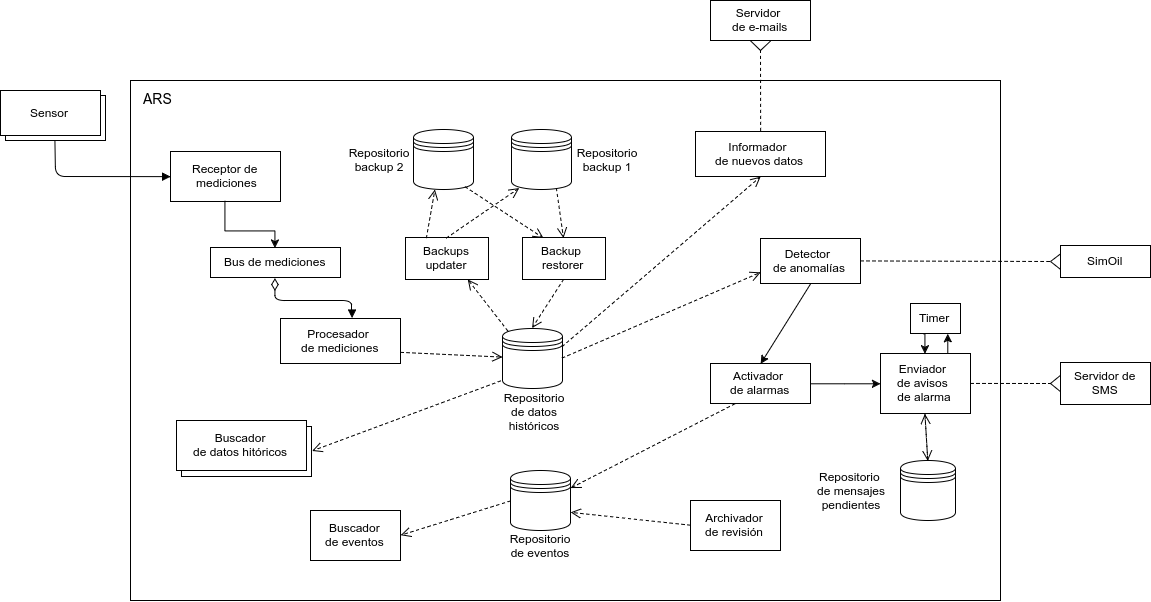
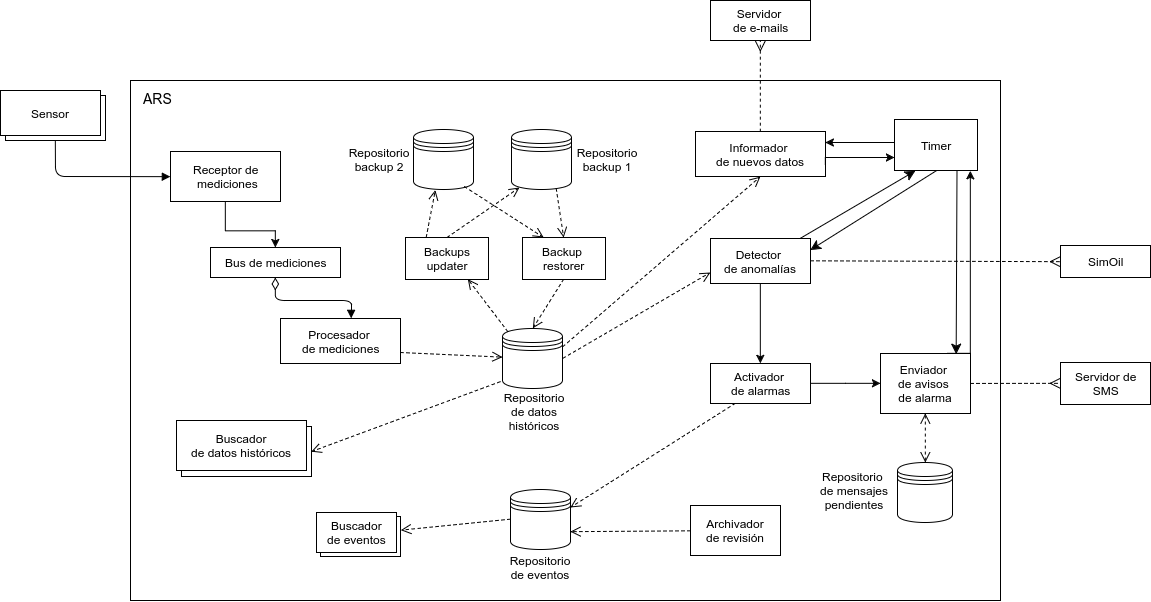
Actualizo con el informe que quedó en el labo

diff --git a/informe/partes/arquitectura.tex b/informe/partes/arquitectura.tex
@@ -1,23 +1,51 @@
 \section{Arquitectura}
-\par Primero vamos a presentar la arquitectura del core de nuestro sistema (ARS), es decir de la parte que se encarga de realizar todas las operaciones sobre los datos.
 
-\begin{figure}[h]
-  \hspace*{-0.7cm}
-  \begin{subfigure}{1.1\textwidth}
-    \includegraphics[width=\textwidth]{imagenes/diagramas/core.png}
+\subsection{Estructura general}
+
+\par Primero vamos a presentar la arquitectura del core de nuestro sistema (ARS), es decir de la parte que se encarga de realizar todas las operaciones sobre los datos (ver figura \ref{fig:dia_cyc_core}).
+\par El encargado de recibir los datos que ingresan al sistema ARS es el \textit{Receptor de mediciones}. A este componente le llegan las mediciones provenientes de los sensores y las publica en un bus, al cual está suscripto el \textit{Procesador de mediciones}. El procesador es el encargado de realizar el trabajo de limpieza y agregación de los datos, para luego colocarlos en el \textit{Repositorio de datos históricos} (más adelante haremos zoom sobre este componente para ver en detalle cómo funciona).
+\par Paralelamente hay un componente llamado \textit{Detector de anomalías}, quien lee los datos ingresados en el repositorio y les aplica algoritmos de big data y machine learning con el propósito de detectar valores anómalos en las mediciones procesadas (para detectarlos también realiza comparaciones con los datos del simulador \textit{SimOil}). Al encontrar un dato no esperado, le envía un call asincrónico al \textit{Activador de alarmas} con toda la información correspondiente a la anomalía, y éste procede a escribir el evento en el \textit{Repositorio de eventos}, al mismo tiempo que se lo comunica al \textit{Enviador de avisos de alarma}. El enviador es el encargado de enviar la notificación a través de una interfaz SMS. Notar que está conectado a un timer y a un repositorio de mensajes pendientes, esto es porque la interfaz SMS no siempre está disponible, y el componente debe reintentar los envíos de mensajes cada cierto tiempo.
+\par El \textit{Informador de nuevos datos} es el componente encargado de comunicarle al ente regulador por mail que hay nuevos datos en el ARS. Para esto está conectado a un timer, de esta manera puede revisar los cambios en el repositorio de datos históricos cada cierto tiempo. Vale aclarar de que el mail que se envía es solo informativo, es decir, no contiene los datos nuevos sino que es solo un aviso (esto es porque el servicio de mail no es seguro, y sería riesgoso para mantener la seguridad del sistema enviar toda la información de las mediciones). Además, enviar los datos puede ser muy poco performante ya que el peso del mail con toda la información puede llegar a ser muy grande.
+\par Por otro lado, como es crucial para nuestra arquitectura tener un repositorio de datos históricos, decidimos darle disponibilidad mediante la realización de un backup. Para esto hay un componente (\textit{Backups updater}) que realiza el backup en los repositorios de backup 1 y 2. En el caso en que el repositorio principal deje de estar disponible, todos los componentes que interactúan con él pasarán a apuntar a alguno de los backups (para que el usuario no detecte la falla), mientras que otro componente, el \textit{Backup restorer}, se encargará de restaurar los datos.
+\par Los componentes \textit{Buscador de datos históricos}, \textit{Buscador de eventos} y \textit{Archivador de revisión} los explicaremos más adelante dado que se relacionan con las interfaces de usuario.
+
+\newpage
+\begin{figure}[H]
+  \centering
+  \includegraphics[angle=-90,scale=0.52]{imagenes/diagramas/core.png}
+  \caption{Diagrama de componentes y conectores que muestra la estructura general y la interacción entre los componentes mas significativos.}
+  \label{fig:dia_cyc_core}
+\end{figure}
+\newpage
+
+\subsection{Procesador de Mediciones}
+
+En la figura \ref{fig:proc_med} podemos observar en detalle el componente Procesador de mediciones (perteneciente al ARS). El mismo posee dos etapas. La primera es la encargada de limpiar los datos recibidos y para ello existen múltiples \textit{Limpiadores de datos}, suscriptos a un Bus de mediciones. Cada uno de los limpiadores se suscribe al tipo de evento que es capaz de procesar (datos de temperatura o presión). Una vez superada esta instancia del proceso, se almacenan los datos en el \textit{Repositorio de datos limpios}.
+\par Luego, varios \textit{Agregadores de mediciones} leen los datos del repositorio, ya sean de temperatura o presión, según la frecuencia seteada por el Timer. Una vez leídos los datos, el mismo componente los borra del repositorio. El objetivo de esto es transformar los datos de alta frecuencia (provenientes de los sensores) en intervalos manejables de 15 minutos. Al finalizar la agregación, las mediciones procesadas son almacenadas en el Repositorio de datos históricos.
+
+\begin{figure}[H]
+  \begin{subfigure}{\textwidth}
+    \includegraphics[width=\textwidth]{imagenes/diagramas/procesadorDeMediciones.png}
   \end{subfigure}
-  \label{}
-  \caption{Diagrama de componentes y conectores del core}
+  \caption{Diagrama de componentes y conectores del Procesador de mediciones}
+  \label{fig:proc_med}
 \end{figure}
 
-\par En la figura se puede observar que poseemos un componente llamado \textit{Receptor de mediciones} el cual, como su nombre lo indica, recibe las mediciones enviadas por los sensores.
-\par Esta es la manera en la que los datos ingresan a ARS. El receptor de mediciones publica en un bus las mediciones para que el \textit{Procesador de mediciones} las reciba luego. El \textit{Procesador de mediciones} es el encargado de realizar el trabajo de limpieza y agregación de los datos para terminar colocando los resultados en un repositorio histórico de datos. La arquitectura interna de este componente la explicaremos más adelante.
-\par Mientras tanto hay un componente dedicado a detectar anomalías, el mismo revisa cada cierto período de longitud configurable si hay nuevos datos en el repositorio de datos históricos. Para detectar las anomalías ejecuta algoritmos de big data y machine learning para lograr su propósito y si llega a encontrar datos no esperados se lo comunica inmediatamente al \textit{Activador de alarmas}. El \textit{Activador de alarmas} procede a escribir el evento en un repositorio de eventos y le comunica el evento al \textit{Enviador de avisos de alarma} para que éste último envie el mensaje por una interfaz SMS. Notar que como la interfaz SMS no siempre está disponible el \textit{Enviador de avisos de alarma} reintenta los envíos cada cierto tiempo.
-\par El \textit{Informador de nuevos datos} es el componente encargado de comunicarle al ente regulador por e-mail que hay nuevos datos en ARS. Para lograr su cometido, lee el repositorio de datos históricos. Dado que es crucial para nuestra arquitectura tener un repositorio de datos históricos decidimos darle disponibilidad mediante la realización de un backup, hay un componente (\textit{Backups updater}) que realiza el backup en los repositorios de backup 1 y 2, en tanto el otro componente (\textit{Backup restorer}) actúa en cuanto el repositorio de datos históricos deja de estar disponible.
-\par Los componentes \textit{Buscador de datos hitóricos}, \textit{Buscador de eventos} y \textit{Archivador de revisión} los explicaremos más adelante dado que están relacionados con las interfaces de usuario.
 
 
-\begin{figure}[h]
+\subsection{Relación de ARS con las UI en clientes}
+
+\par Las funcionalidades disponibles de nuestro sistema ARS desde el punto de vista de la interfaz de usuario son: monitoreo de datos, visualizar la lista de eventos y revisar los mismos. En todos los casos se necesita que el cliente se comunique con el servidor.
+
+\begin{itemize}
+    \item \textbf{Monitor de datos:} El usuario ingresa a la pantalla de monitoreo y el componente \textit{UI monitor de datos} le envía un mensaje asincrónico al \textit{Solicitador de datos} para pedirle las últimas mediciones tomadas. Al recibir esta petición, lee en el \textit{Repositorio de sesión} las credenciales de sesión actual y le envía un mensaje al componente \textit{UI monitor de datos} para avisarle que recibió su solicitud y que la está procesando. El \textit{Solicitador de datos} se comunica de manera segura (ya que viajan credenciales) con el \textit{Buscador de datos históricos} (que se encuentra en el servidor ARS). Es importante aclarar que le pide una cantidad limitada de datos. Una vez que un \textit{Buscador de datos históricos} recibe una petición, valida que el usuario posea los permisos necesarios para acceder a los datos pedidos (por medio del \textit{Repositorio de perfiles de usuarios y sesiones}). Si el usuario no posee permisos (o su sesión no es válida), el buscador le responde al solicitador acceso denegado. En el caso de que el usuario posea los permisos necesarios, el \textit{Buscador de datos históricos} lee desde el \textit{Repositorio histórico de datos} los datos requeridos para luego enviárselos al \textit{Pulicitador de datos}. Una vez que este recibe la respuesta, se la comunica a la \textit{UI monitor de datos} para que los muestre. Como es una herramienta de monitoreo se necesita que con el correr del tiempo se muestren nuevos datos sin la solicitud expresa del usuario. Por esta razón, incluimos un componente llamado \textit{Timer} para que luego de un tiempo configurado le avise al \textit{Solicitador de datos} que debe pedir nuevos datos. Al recibir este aviso, realiza un nuevo pedido al \textit{Buscador de datos históricos} indicando que se quieren obtener solo datos con fecha mayor al último pedido.
+    \item \textbf{Visualizar la lista de eventos:} El usuario accede a la pantalla de listar eventos y el componente UI listado de eventos le envía un mensaje asincrónico al solicitador de eventos y éste le envía otro mensaje asincrónico para avisarle que recibió la solicitud. El solicitador de eventos lee los datos del usuario en el repositorio de sesión y luego establece una conexión segura con el buscador de eventos para solicitarle la lista de eventos. El buscador de eventos lee el repositorio de usuarios, roles y sesiones para validar los datos de acceso y luego el repositorio de eventos para pedir la lista de eventos. El buscador de eventos le envía la lista al solicitador de eventos para que éste se lo reenvíe a la interfaz de usuario. \\
+    De manera opcional, el usuario puede seleccionar un evento en particular. En ese caso, UI listado de eventos le envía un mensaje sincrónico al selector de evento con el evento elegido para que lo almacene en el Repositorio de evento seleccionado.
+    \item \textbf{Visualizar detalle del evento seleccionado:}
+    \item \textbf{Revisión de eventos:} En la pantalla de revisión de evento el usuario puede informar la acción realizada o bien, un falso positivo. La interfaz de usuario de revisión de evento le envía un call sincrónico con el resultado del evento para que el informador de revisión lea el repositorio de sesión y luego se lo pase al archivador de revisión. El archivador de sesión valida los datos de usuario y escribe en el repositorio de eventos la medida tomada o el falso positivo.
+\end{itemize}
+
+\begin{figure}[H]
   \begin{subfigure}{\textwidth}
     \includegraphics[width=\textwidth]{imagenes/diagramas/interaccionConClientes.png}
   \end{subfigure}
@@ -25,26 +53,22 @@
   \caption{}
 \end{figure}
 
-\begin{figure}[h]
+\subsection{Autenticación y creación de sesiones}
+
+\par A continuación pasaremos a explicar los procesos de autenticación, creación de sesión y finalización de sesión. Estos procesos pueden seguirse observando el diagrama de componentes y conectores de la figura \ref{fig:dia_cyc_autenticacion}
+
+\par El proceso de autenticación con el sistema ARS inicia cuando una persona ingresa sus datos de usuario y contraseña en la \textit{UI Login}, que envía estos datos al \textit{Iniciador de login} y se queda esperando la respuesta. Éste, por su parte, inicia una conexión segura con el \textit{Validador de usuarios y contraseñas} (dentro del sistema ARS) para enviarle la petición junto con los datos sensibles de autenticación. Al recibir la petición, el componente \textit{Validador de usuarios y contraseñas} se conecta con el \textit{Hasher}, le envía la contraseña y espera a que sea procesada y devuelta. Una vez obtenido el hash de la contraseña, el componente \textit{Validador de usuarios y contraseñas} corrobora en el \textit{Repositorio de usuarios y contraseñas hasheadas} que exista un usuario que corresponda a esos valores. En caso que no se encuentre el usuario corespondiente, se responde al \textit{Iniciador de sesión} con un error que indica que alguno de los datos ingresados es incorrecto. Este componente responde de la misma manera a la \textit{UI Login} para que muestre el error. En caso de que el componente \textit{Validador de usuarios y contraseñas} encuentre al usuario que corresponde a los valores buscados, le pide al \textit{Creador de sesiones} que genere una nueva sesión para este usuario. Luego de generar la sesión, el \textit{Creador de sesiones} la guarda en el \textit{Repositorio de perfiles de usuarios y sesiones} y responde al \textit{Validador de usuarios y contraseñas} con esta nueva sesión. Para finalizar, se envía esta nueva sesión al \textit{Iniciador de sesión}, quien la almacena en el \textit{Repositorio de sesión} y le comunica a la \textit{UI Login} que se ha conseguido iniciar sesión correctamente.
+
+\par Para el caso de la finalización de sesión, cualquier componente dentro de \textit{UI} (donde se incluyen las interfaces para usuarios autenticados) puede enviar una petición al \textit{Finalizador de sesión}, quien inicia una conexión segura con el componente \textit{Borrador de sesión} (dentro del sistema ARS) y le comunica que quiere borrar la sesión. Es importante nombrar que la conexión debe ser segura porque un intermediario podría hacerse pasar por el sistema ARS, contestar que se procesó la petición y continuar utilizando esta sesión válida con acceso a datos sesnsibles del sistema. El componente \textit{Borrador de sesión} valida la sesión con el \textit{Repositorio de perfiles de usuarios y sesiones}, la marca como finalizada y envía la respuesta al \textit{Finalizador de sesión}. Por último, este componente borra la sesión que se encontraba almacenada en el \textit{Repositorio de sesión} y comunica a quien inició la petición para comunicarle que se procesó el pedido con éxito.
+
+\begin{figure}[H]
   \begin{subfigure}{\textwidth}
     \includegraphics[width=\textwidth]{imagenes/diagramas/loginYLogout.png}
   \end{subfigure}
-  \label{}
-  \caption{}
+  \caption{Diagrama de componentes y conectores que participan de los procesos de autenticación y finalización de sesiones.}
+  \label{fig:dia_cyc_autenticacion}
 \end{figure}
 
-\begin{figure}[h]
-  \begin{subfigure}{\textwidth}
-    \includegraphics[width=\textwidth]{imagenes/diagramas/procesadorDeMediciones.png}
-  \end{subfigure}
-  \label{}
-  \caption{}
-\end{figure}
 
-\begin{figure}[h]
-  \begin{subfigure}{\textwidth}
-    \includegraphics[width=\textwidth]{imagenes/diagramas/validadorDeUsuarios.png}
-  \end{subfigure}
-  \label{}
-  \caption{}
-\end{figure}
+
+\newpage

diff --git a/informe/partes/conclusiones.tex b/informe/partes/conclusiones.tex
@@ -1,0 +1,15 @@
+\section{Conclusiones}
+
+En este trabajo nos centramos en diseñar un sistema ARS para procesar los datos generados por sensores de temperatura y presión en pozos de extracción de petróleo, que luego utilizarán ingenieros de forma remota y así prevenir eventuales catástrofes por el mal uso de los recursos.
+
+La solución presentada especifica los principales casos de usos (actores, condiciones en las que se dá el caso, y el curso alternativo ante cualquier eventualidad), escenarios típicos que permitirán medir los atributos de calidad del sistema, y suma, al final, unas vistas híbridas, entre la de componentes y conectores y la de deployment, que muestran gráficamente la arquitectura completa del ARS. Este diseño arquitectónico es un esquema de organización estructural del sistema con un nivel de abstracción alto en donde se muestran las relaciones entre los componentes, que bien pueden ser de software o hardware, y donde se describe qué es lo que hace cada uno sin entrar en el detalle del cómo lo hace, pero cuyas tareas son potencialmente complejas.
+
+Este enfoque, conocido como \textit{programming in the large}, está en contraste con el abordado en el TP1. Allí, la implementación la documentamos mediante diagramas del diseño orientado a objetos, el cual nos permitió mostrar componentes a bajo nivel: clases, que se terminan programando, y los objetos, como instancias de las primeras. La interacción entre ellos es más simples y los diagramas nos permitían un mayor detalle de qué es lo que hace cada objeto, pero aún así ocultando el cómo. Esta forma de diseñar se la conoce como \textit{programming in the small}.
+
+En las vistas de arquitectura que hicimos, utilizamos tácticas para reforzar los escenarios de atributos de calidad que escribimos primero, como la Seguridad, Disponibilidad y Performance. Pero no nos permite implementar táctica para atacar los atributos de Modificabilidad, Usabilidad y Testeabilidad.
+
+% Patrones de diseño vs Estilos y tácticas de diseño (no es un versus sino una comparación de ejemplos que nos ayudan a solucionar problemas comunes)
+
+% Arquitectura: se programa en alto nivel, se muestra más las relaciones entre los componentes del sistema, y se especifica qué es lo que hace cada uno, sin entrar en el detalle de cómo lo hace. Esquema de organización estructural del sistema con un nivel de abstracción mayor que el de diseño. No se puede mostrar modificabilidad, usabilidad y testeabilidad.
+
+% Diseño: es bajo nivel. relaciones entre objetos y clases.

diff --git a/informe/partes/cumplimiento_atributos.tex b/informe/partes/cumplimiento_atributos.tex
@@ -1,0 +1,34 @@
+\section{Cumplimiento de atributos de calidad}
+
+\par A continuación pasaremos a explicar cómo dimos respuesta a los atributos de calidad pedidos con las decisiones tomadas en la arquitectura del sistema.
+
+\subsection{Performance}
+
+\par
+
+\subsection{Seguridad}
+
+\par
+
+\subsection{Disponibilidad}
+
+\par
+
+\subsection{Usabilidad}
+
+\par
+
+\subsection{Testeabilidad}
+
+\par
+
+
+
+\textbf{NO OLVIDAR}
+1. ¿Cómo se cumplen los requerimientos de disponibilidad?
+2. ¿Cómo se cumplen los requerimientos de seguridad?
+3. ¿Cómo es la interacción con los servicios externos? (Instrumentos de monitoreo) ¿Hay
+disponibilidad? ¿Seguridad? ¿Es tolerante a fallos?
+4. ¿Cómo se logra performance? ¿Se cumple pronóstico de evento catastrófico 24hs
+antes?
+5. ¿Cómo se informa a los entes reguladores?

diff --git a/informe/Informe.tex b/informe/Informe.tex
@@ -10,15 +10,18 @@
 \tableofcontents
 
 %\newpage
-\input{partes/casos_uso.tex}
+%\input{partes/casos_uso.tex}
 
-\newpage
-\input{partes/calidad.tex}
+%\newpage
+%\input{partes/calidad.tex}
 
 \newpage
 \input{partes/arquitectura.tex}
 
 \newpage
-\input{partes/oovsarq.tex}
+\input{partes/cumplimiento_atributos.tex}
+
+\newpage
+\input{partes/conclusiones.tex}
 
 \end{document}
